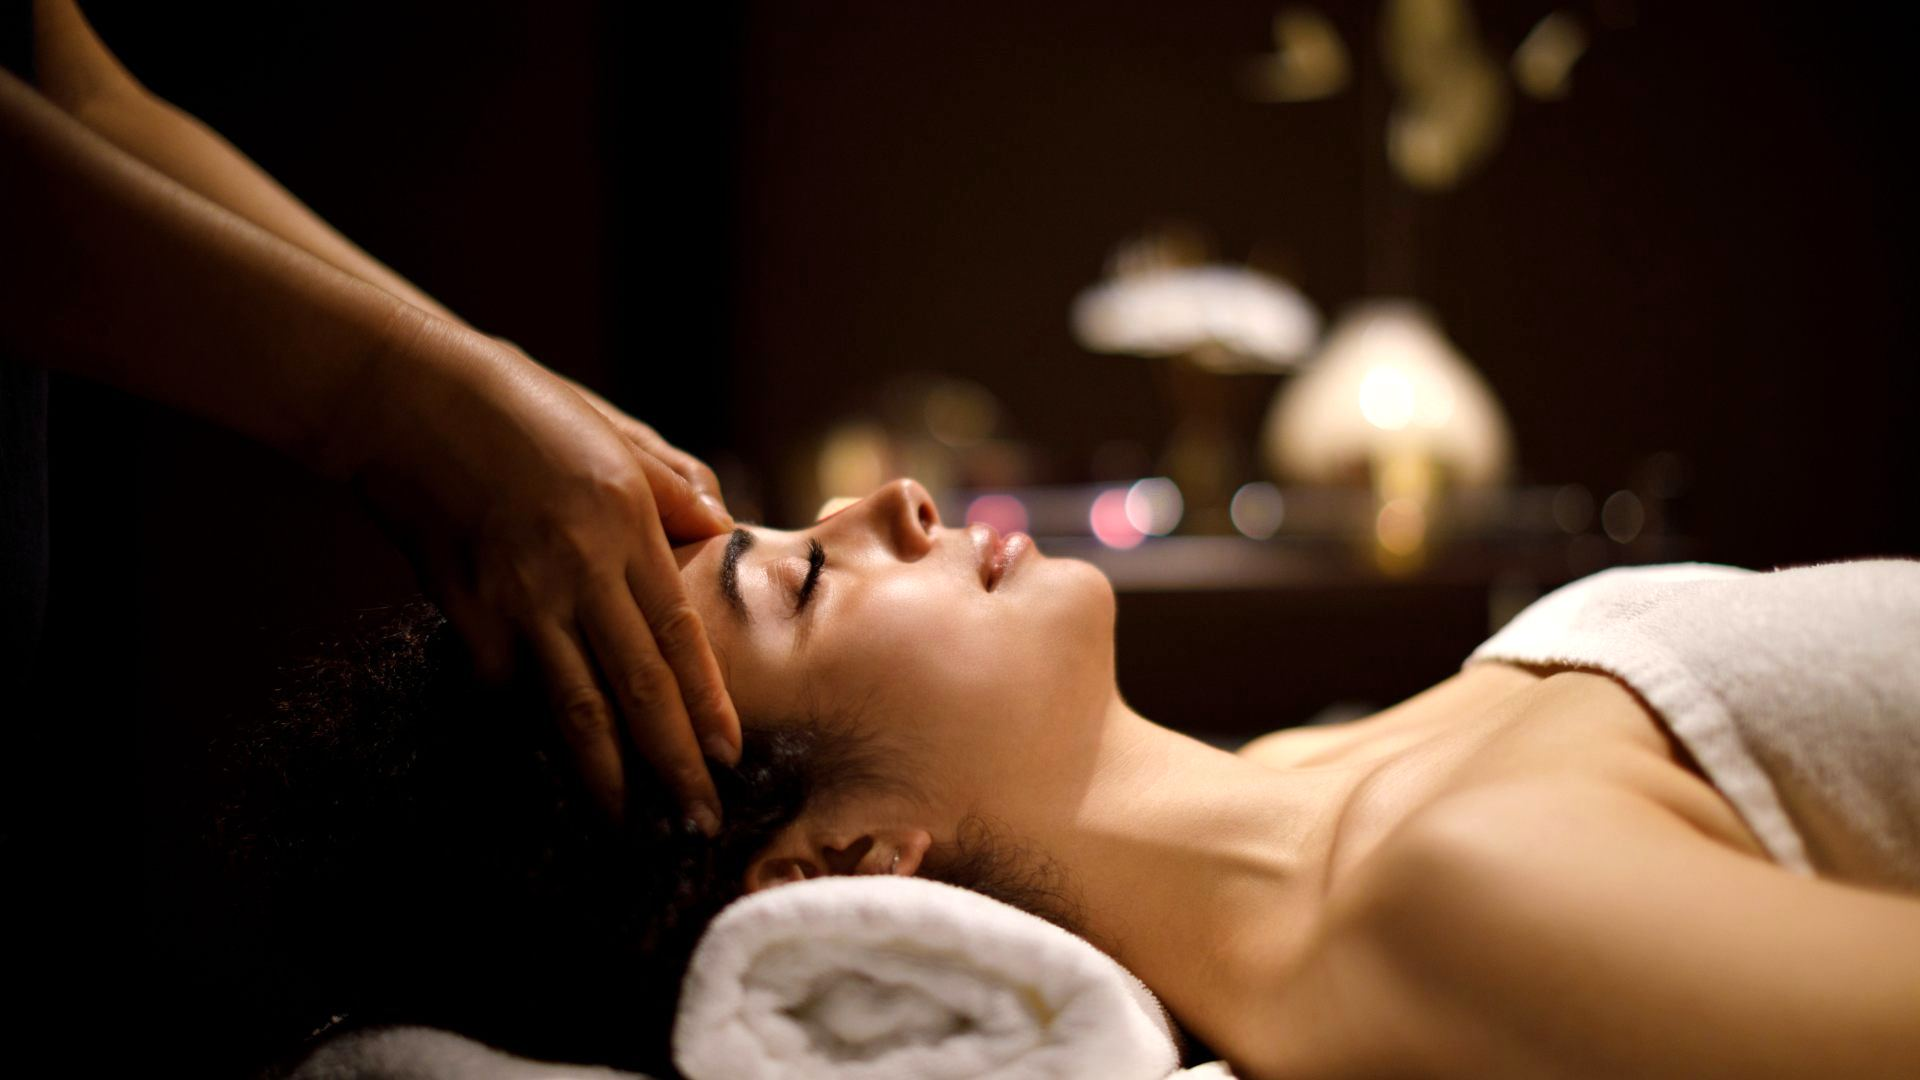
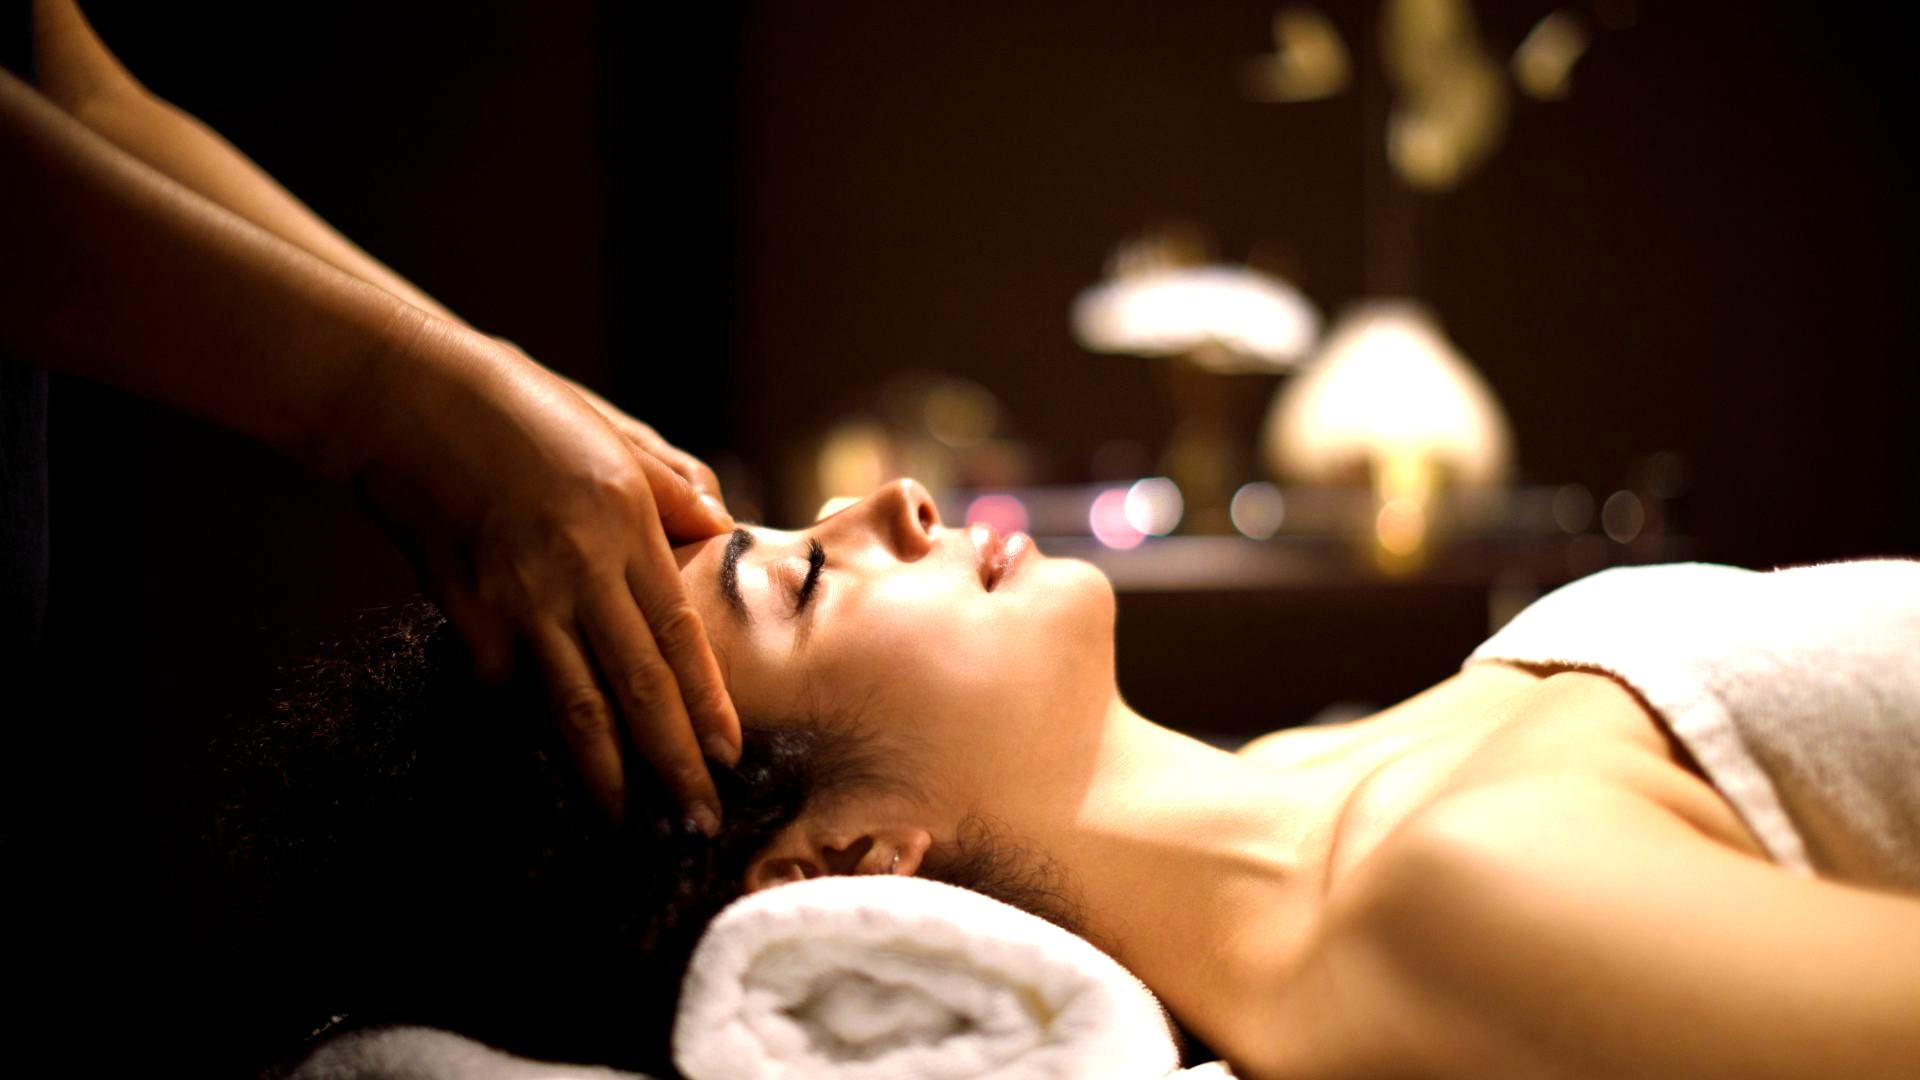
Let the hero photographs be seen
The scrim that made the new slides legible also made them hard to look at. Two
of the four are dim rooms to begin with, and under a flat 0.58-0.80 wash the
practitioner shot read as a silhouette — you could not tell what was happening
in a photograph chosen precisely because it shows what happens.

The wash was doing work it did not need to do. Only the kicker and the
sub-heading are small enough to need 4.5:1; the h1 in the middle of the frame
needs 3:1 and had ten. So the linear pass now dips to 0.30 across the middle
and the ellipse tightens onto the copy, which leaves the photograph its light
everywhere the small type is not. The two dim frames are lifted at export
instead of being asked to survive the overlay.

Phones get their own, heavier scrim. The hero is far taller than it is wide
there, so the copy covers most of the frame rather than a band across its
middle, and there is no arrangement that keeps a photo bright behind text when
the text is most of the picture. Pretending otherwise would just mean shipping
a phone hero that fails contrast.

Slide one comes out 43% brighter overall (mean luminance 62 -> 89) and every
line of copy still clears AA over all four slides at both breakpoints.

diff --git a/style.css b/style.css
@@ -339,16 +339,33 @@ body.lang-ja .lang-toggle .lang-ja { color: var(--gold-soft); font-weight: 600; 
 /* Two layers, because the slides are no longer a single near-black photo. The
    head-bath shots are bright — pale wall, white water — and over them the gold
    kicker sat at 2.6:1 against #cdb587, well under the 4.5:1 small text needs.
-   The linear pass sets the overall mood; the ellipse does the legibility work,
-   sitting only where the copy is so the photo keeps its light at the edges.
-   Numbers here are measured, not guessed: every line of hero copy clears WCAG
-   AA over all four slides at both breakpoints. */
+   The ellipse does the legibility work and sits only where the copy is; the
+   linear pass is kept as light as the kicker and the scroll cue allow, so the
+   photograph keeps its light everywhere else. The middle of the frame is where
+   the h1 sits and the h1 only needs 3:1, which is what buys the transparency.
+   Numbers are measured, not guessed — see the AA check below. */
 .hero-scrim {
   position: absolute; inset: 0;
   background:
-    radial-gradient(ellipse 82% 66% at 50% 42%,
-      rgba(24,20,17,0.72) 0%, rgba(24,20,17,0.44) 58%, rgba(24,20,17,0) 100%),
-    linear-gradient(180deg, rgba(43,38,34,0.78) 0%, rgba(43,38,34,0.58) 45%, rgba(43,38,34,0.80) 100%);
+    radial-gradient(ellipse 74% 62% at 50% 42%,
+      rgba(24,20,17,0.66) 0%, rgba(24,20,17,0.36) 62%, rgba(24,20,17,0) 100%),
+    linear-gradient(180deg,
+      rgba(43,38,34,0.80) 0%, rgba(43,38,34,0.60) 20%,
+      rgba(43,38,34,0.30) 52%, rgba(43,38,34,0.60) 100%);
+}
+/* A phone gets a heavier hand, and not for want of trying to avoid it: the hero
+   is far taller than it is wide there, so the copy covers most of the frame
+   instead of a band across its middle. There is no arrangement that leaves the
+   photo bright *behind the text* when the text is the picture. */
+@media (max-width: 639px) {
+  .hero-scrim {
+    background:
+      radial-gradient(ellipse 100% 64% at 50% 44%,
+        rgba(24,20,17,0.66) 0%, rgba(24,20,17,0.42) 62%, rgba(24,20,17,0) 100%),
+      linear-gradient(180deg,
+        rgba(43,38,34,0.82) 0%, rgba(43,38,34,0.68) 20%,
+        rgba(43,38,34,0.52) 55%, rgba(43,38,34,0.72) 100%);
+  }
 }
 /* The bottom padding reserves room for .hero-scroll, which is absolutely
    positioned at the foot of the hero. At 90px the CTA buttons collided with
